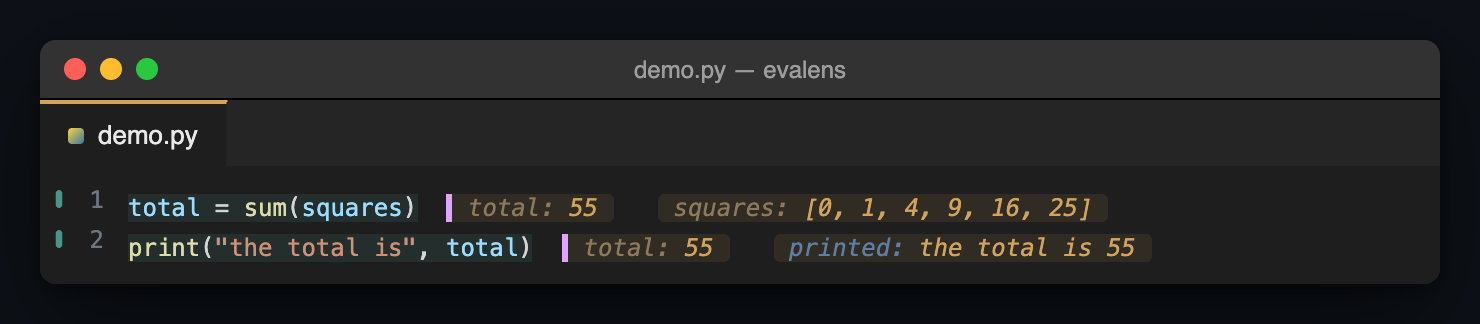
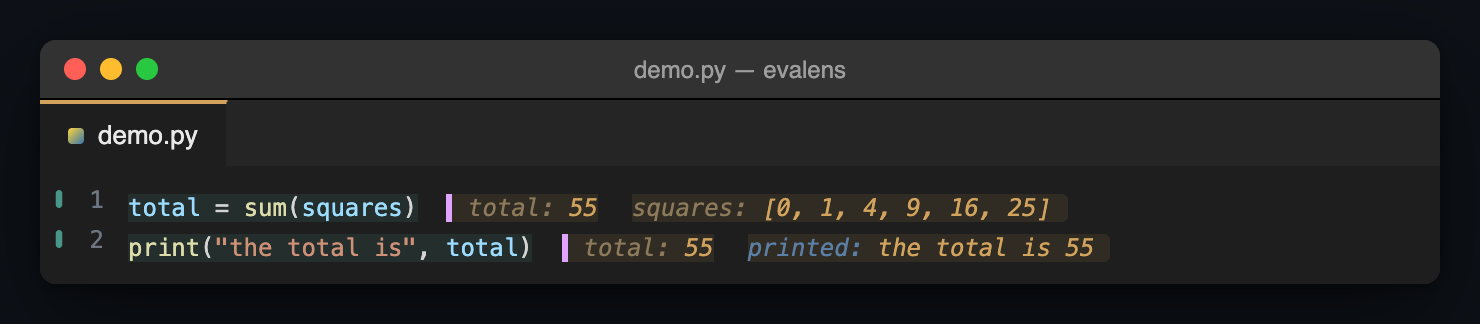
Regenerate stills and update prose for the one-chip divider
Part 3 of #118: every README still is regenerated through the real
kernel and the compiled renderer (npm run stills), since the chip
shape and the loop count fold both changed what several of them
paint even though none of their JSON specs did -- loop.png and
comprehension.png were read back by eye, along with the rest, before
being staged.

loop.png now shows n and squared (both five iterations, no other
name on the line) folding their count into one leading `x5`, one
continuous tinted box with hairline dividers between the three
groups, the accent bar square at the leading edge and rounding only
at the trailing one. comprehension.png keeps the old per-name form,
because squares carries no count of its own and blocks the fold --
useful confirmation that the two features are independent.

Measured through a scratch harness driving the same real pipeline
(not committed): the divider is 8px of tinted clear space, a 1px
rule, then 8px more, with no residual gap on either side. The
three-group loop line in loop.json (n / squared / printed) is
554.11px of annotation against 607.38px before, 53.27px narrower;
a second three-group case with no output (v / c / d, from the
"loop body binding" fixture) goes from 383.42px to 308.48px, 74.94px
narrower. Both numbers are from this repo's own still pipeline
(Menlo 12px) rather than the maintainer's 14px mockup quoted on the
ticket, which is a different rendering environment.
[…]

Changed region(s): [[0.4041, 0.6173, 0.7459, 0.679], [0.4973, 0.7407, 0.777, 0.8025]]

diff --git a/src/render/decorations.ts b/src/render/decorations.ts
@@ -557,11 +557,12 @@ export class Decorator implements vscode.Disposable {
           rangeBehavior: vscode.DecorationRangeBehavior.ClosedOpen,
           after: {
             // No background here, unlike `errorType` and `pendingType`: a
-            // segment slot in this shared pool paints a tinted chip on one
-            // annotation and the untinted gap between two chips on the next,
-            // so the #95 tint has to ride the per-range `renderOptions`
-            // `show` builds below rather than this one static config every
-            // slot would otherwise share.
+            // segment slot in this shared pool paints the evaluated tint on
+            // one annotation and the stale or pending one on the next (or,
+            // since #118, one of the divider's own two shapes), so the tint
+            // has to ride the per-range `renderOptions` `show` builds below
+            // rather than this one static config every slot would otherwise
+            // share regardless of which annotation lands in it.
             //
             // Italic is what makes an annotation legible as not-code at a
             // glance, before colour is even processed. Rider leans on this and

diff --git a/README.md b/README.md
@@ -71,17 +71,20 @@ if you stop writing programs and start writing cells.
 
 <p align="center">
   <img src="media/demo/spot-the-bug.png" width="720" alt="The same program
-    with total = s instead of total += s: the loop's history reads total ×4:
-    72, 85, 91, 64, and average: 16.0 follows two lines later">
+    with total = s instead of total += s: the loop's history reads ×4, s:
+    72, 85, 91, 64, total: 72, 85, 91, 64 -- total mirrors s exactly -- and
+    average: 16.0 follows two lines later">
 </p>
 
 **Here is the same program with one character missing** — `total = s` where
-it should say `total += s`. Read line 3: `total ×4: 72, 85, 91, 64`. The
-accumulator never accumulates; it just takes each score in turn. Two lines
-down, `average: 16.0` is the consequence. A debugger stopped at the end
-would show you `total: 64` and nothing about how it got there. The trace
-shows you the bug on the line that has it, without a breakpoint, without a
-`print()`, without leaving the file.
+it should say `total += s`. Read line 3: `×4   s: 72, 85, 91, 64   total:
+72, 85, 91, 64`. Both ran four times, so the count is said once, and once
+it is said the two sequences sit close enough to compare by eye: `total`
+mirrors `s` exactly. The accumulator never accumulates; it just takes each
+score in turn. Two lines down, `average: 16.0` is the consequence. A
+debugger stopped at the end would show you `total: 64` and nothing about
+how it got there. The trace shows you the bug on the line that has it,
+without a breakpoint, without a `print()`, without leaving the file.
 
 ## Who this is for
 
@@ -176,10 +179,12 @@ for n in range(5):
 ```
 
 Every value the target took, **everything the body bound**, and what it
-printed — on the header line, where you are looking. The `×5` is the
-iteration count, so a history never reads as a list that happens to have
-five things in it. A filtered loop shows the filtering directly: `v ×5`
-beside `kept ×2`.
+printed — on the header line, where you are looking. `n` and `squared`
+both ran five times here, so the count leads the line once, as `×5`,
+rather than repeating on each name — a history never reads as a list that
+happens to have five things in it. Only when the counts genuinely differ
+does each name carry its own: a filtered loop shows the filtering
+directly, `v ×5` beside `kept ×2`.
 
 ### A comprehension stops hiding its loop
 

diff --git a/docs/development/demo-shooting-script.md b/docs/development/demo-shooting-script.md
@@ -51,7 +51,7 @@ appear.
 | 5 | `lst` | `lst: [1, 2, 3, 4]` | The payoff — `lst` moved without being assigned |
 | 6 | `lst = [9, 9]` | `lst: [9, 9]` | And now they are two lists again |
 | 7 | `other` | `other: [1, 2, 3, 4]` | Rebinding did not touch the other name |
-| 8 | `for n in range(5):` | `n ×5: 0, 1, 2, 3, 4   squared ×5: 0, 1, 4, 9, 16   printed: n is 0 …(5 lines)` | The line no terminal can produce |
+| 8 | `for n in range(5):` | `×5   n: 0, 1, 2, 3, 4   squared: 0, 1, 4, 9, 16   printed: n is 0 …(5 lines)` | The line no terminal can produce |
 | 9 | `squares = [...]` | `squares: [0, 1, 4, 9, 16, 25]   n ×6: 0, 1, 2, 3, 4, 5` | A comprehension showing its hidden loop |
 | 10 | `total = sum(squares)` | `total: 55   squares: [0, 1, 4, 9, 16, 25]` | Ordinary, and the name it read comes along — keeps the rhythm |
 | 11 | `print("the total is", total)` | `printed: the total is 55` | Output, not the `None` it returned |
